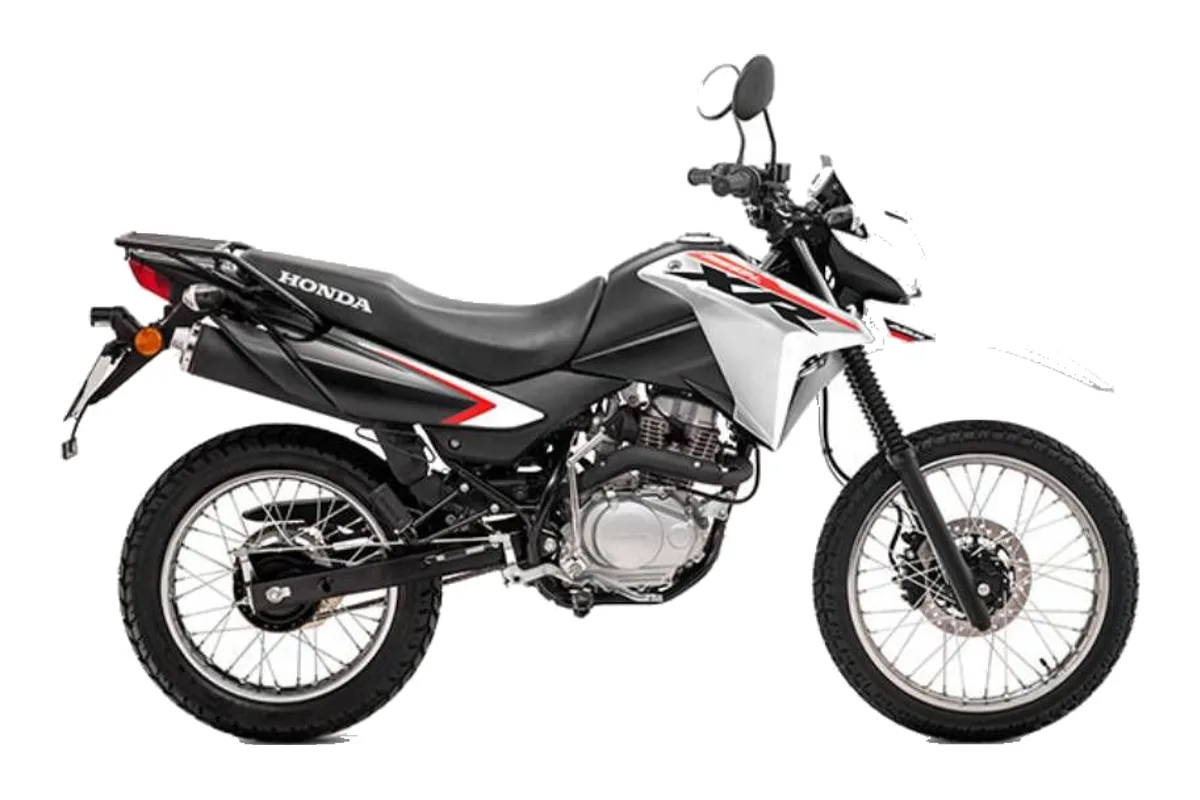
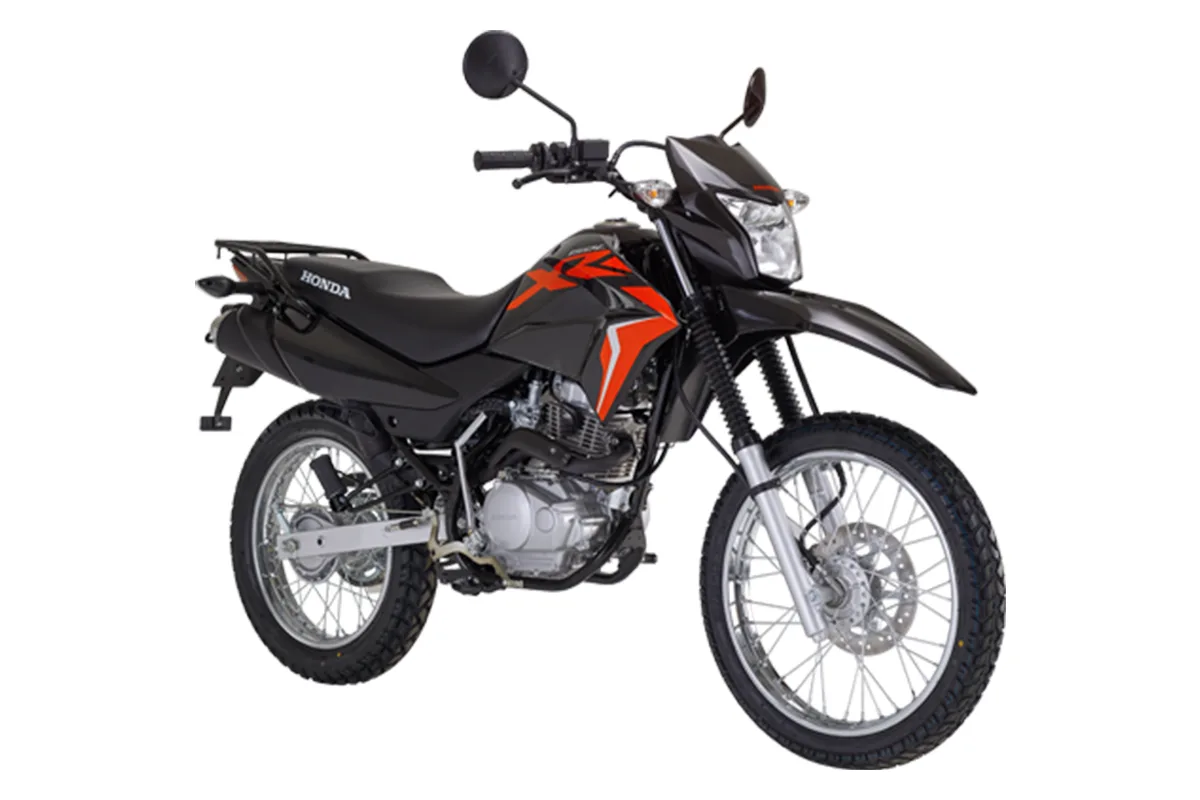
Before launch: blog fixes, licence, hours, XR150 photo, Google reviews
- Old blog posts match the site: Vietnam drives on the right; booking is a
  free request confirmed by email, then a 1,500,000₫ deposit paid to the
  shop; free delivery near District 1; prices from the bike pages; real
  lists and a comparison table instead of Odoo leftovers.
- Licence texts (EN, FR, KO, FAQ, guides, pick-up email): IDP under the
  1968 Vienna Convention, for every bike including the Versys X300.
- Open every day 8am to 8pm, in the text and the structured data.
- XR150: the owner's cut-out photo as the studio photo; the photo with
  the old logo pasted on it is out of the gallery.
- Three real Google Maps reviews in reviews.json until the Places key
  is set up.

diff --git a/src/i18n/content/ko.ts b/src/i18n/content/ko.ts
@@ -117,8 +117,8 @@ export const koContent: TranslatedContent = {
   },
   licence: {
     IDP_OR_A1:
-      "베트남 오토바이 면허 또는 오토바이가 포함된 국제운전면허증(1949년 제네바 협약)이 필요합니다.",
-    A2: "175cc 초과: 베트남 정식 오토바이 면허가 필요합니다.",
+      "베트남 오토바이 면허 또는 오토바이가 포함된 국제운전면허증(1968년 비엔나 협약)이 필요합니다.",
+    A2: "175cc 초과: 베트남 오토바이 면허 또는 오토바이가 포함된 국제운전면허증(1968년 비엔나 협약)이 필요합니다.",
   },
   kinds: {
     "Semi-automatic": "반자동",
@@ -135,8 +135,7 @@ export const koContent: TranslatedContent = {
       question: "어떤 면허가 필요한가요?",
       answer: [
         "본국 운전면허증만으로는 베트남에서 운전할 수 없습니다.",
-        "50cc~175cc 오토바이(가와사키 베르시스 X300을 제외한 모든 오토바이)는 베트남 오토바이 면허, 또는 1949년 제네바 협약에 따라 발급되고 오토바이가 포함된 국제운전면허증이 필요합니다.",
-        "베르시스 X300처럼 175cc를 넘는 오토바이는 베트남 정식 오토바이 면허가 필요합니다.",
+        "110cc 웨이브부터 가와사키 베르시스 X300까지 모든 오토바이는 베트남 오토바이 면허, 또는 1968년 비엔나 협약에 따라 발급되고 오토바이가 포함된 국제운전면허증이 필요합니다.",
       ],
     },
     {
@@ -264,7 +263,7 @@ export const koContent: TranslatedContent = {
     "베트남 어디서나 WhatsApp 도로 지원",
     "1군 및 인근 호텔 무료 배달",
   ],
-  hours: "매일 오전 8시~오후 7시 영업",
+  hours: "매일 오전 8시~오후 8시 영업",
   addOns: {
     insurance: {
       name: "종합 보험",

diff --git a/src/i18n/content/fr.ts b/src/i18n/content/fr.ts
@@ -116,8 +116,8 @@ export const frContent: TranslatedContent = {
   },
   licence: {
     IDP_OR_A1:
-      "Demande un permis moto vietnamien, ou un permis de conduire international (Convention de Genève de 1949) valable pour les motos.",
-    A2: "Plus de 175 cc : demande un permis moto vietnamien complet.",
+      "Demande un permis moto vietnamien, ou un permis de conduire international (Convention de Vienne de 1968) valable pour les motos.",
+    A2: "Plus de 175 cc : demande un permis moto vietnamien, ou un permis de conduire international (Convention de Vienne de 1968) valable pour les motos.",
   },
   kinds: {
     "Semi-automatic": "Semi-automatique",
@@ -134,8 +134,7 @@ export const frContent: TranslatedContent = {
       question: "Quel permis faut-il ?",
       answer: [
         "Le permis de conduire de votre pays ne suffit pas à lui seul au Vietnam.",
-        "Pour les motos de 50 à 175 cc (toutes nos motos sauf la Kawasaki Versys X300), il faut un permis moto vietnamien, ou un permis de conduire international délivré selon la Convention de Genève de 1949 et valable pour les motos.",
-        "Pour les motos de plus de 175 cc, comme la Versys X300, il faut un permis moto vietnamien complet.",
+        "Pour toutes nos motos, de la Wave 110 cc à la Kawasaki Versys X300, il faut un permis moto vietnamien, ou un permis de conduire international délivré selon la Convention de Vienne de 1968 et valable pour les motos.",
       ],
     },
     {
@@ -266,7 +265,7 @@ export const frContent: TranslatedContent = {
     "Assistance partout au Vietnam, par WhatsApp",
     "Livraison gratuite à votre hôtel dans le 1er arrondissement ou à proximité",
   ],
-  hours: "Ouvert tous les jours, de 8 h à 19 h",
+  hours: "Ouvert tous les jours, de 8 h à 20 h",
   addOns: {
     insurance: {
       name: "Assurance tous risques",

diff --git a/src/content/bikes.ts b/src/content/bikes.ts
@@ -272,7 +272,6 @@ export const LEAD_PHOTO: Record<string, string> = {
   "yamaha-nvx125": "/bikes/gallery/yamaha-nvx125-1.webp",
   "honda-winner-x-150": "/bikes/gallery/honda-winner-x-150-1.webp",
   "suzuki-gsx-r150": "/bikes/gallery/suzuki-gsx-r150-2.webp",
-  "honda-xr150": "/bikes/gallery/honda-xr150-1.webp",
   "honda-cb150x": "/bikes/gallery/honda-cb150x-1.webp",
   "yamaha-wr155r": "/bikes/gallery/yamaha-wr155r-3.webp",
   "kawasaki-versys-x300": "/bikes/gallery/kawasaki-versys-x300-1.webp",
@@ -280,6 +279,6 @@ export const LEAD_PHOTO: Record<string, string> = {
 
 export const LICENCE_TEXT: Record<BikeContent["licence"], string> = {
   IDP_OR_A1:
-    "Needs a Vietnamese motorcycle licence, or an International Driving Permit (1949 Geneva Convention) that covers motorbikes.",
-  A2: "Over 175cc: Needs a Vietnamese motorcycle licence, or an International Driving Permit (1949 Geneva Convention) that covers motorbikes.",
+    "Needs a Vietnamese motorcycle licence, or an International Driving Permit (1968 Vienna Convention) that covers motorbikes.",
+  A2: "Over 175cc: Needs a Vietnamese motorcycle licence, or an International Driving Permit (1968 Vienna Convention) that covers motorbikes.",
 };

diff --git a/src/content/blog/guides.ts b/src/content/blog/guides.ts
@@ -65,7 +65,7 @@ export const GUIDES: Guide[] = [
 <p>The roads are paved the whole way. A Honda XR150 or CB150X is comfortable for luggage and the mountain passes; a Honda Winner X is lighter and quick on the coast road. If you've never ridden a manual, the Honda Wave Alpha is easy to learn on, just slower on the climbs.</p>
 <h2>Good to know</h2>
 <ul>
-<li>You need a Vietnamese motorbike licence or an International Driving Permit (1949 Geneva Convention) that covers motorbikes.</li>
+<li>You need a Vietnamese motorbike licence or an International Driving Permit (1968 Vienna Convention) that covers motorbikes.</li>
 <li>One-way rentals to Da Nang are at least 7 days. The one-way fee depends on the bike and is shown when you book.</li>
 <li>Every rental includes a helmet, phone holder, luggage rack and roadside help by WhatsApp, wherever you are.</li>
 </ul>`,

diff --git a/src/content/faq.ts b/src/content/faq.ts
@@ -9,8 +9,7 @@ export const FAQ: Faq[] = [
     question: "Which licence do I need?",
     answer: [
       "Your home country driving licence on its own is not valid in Vietnam.",
-      "For bikes from 50cc to 175cc (all our bikes except the Kawasaki Versys X300), you need a Vietnamese motorcycle licence, or an International Driving Permit issued under the 1949 Geneva Convention that includes motorbikes.",
-      "For bikes over 175cc, like the Versys X300, you need a full Vietnamese motorcycle licence.",
+      "For all our bikes, from the 110cc Wave to the Kawasaki Versys X300, you need a Vietnamese motorcycle licence, or an International Driving Permit issued under the 1968 Vienna Convention that includes motorbikes.",
     ],
   },
   {

diff --git a/src/server/emails/pickup-reminder.ts b/src/server/emails/pickup-reminder.ts
@@ -32,7 +32,7 @@ export function pickupReminderEmail(d: PickupReminderData): Email {
     ["Balance to pay at pick-up", formatVnd(d.balanceVnd)],
   ];
   const bring = [
-    "Your motorbike licence, or an International Driving Permit (1949 Geneva Convention) that covers motorbikes.",
+    "Your motorbike licence, or an International Driving Permit (1968 Vienna Convention) that covers motorbikes.",
     "A security deposit, returned when you bring the bike back: your passport, or cash (US$300 for a scooter, US$500 for a motorcycle).",
     d.balanceVnd > 0
       ? `The balance of ${formatVnd(d.balanceVnd)}, in cash or by bank transfer.`

diff --git a/src/content/business.ts b/src/content/business.ts
@@ -15,10 +15,10 @@ export const BUSINESS = {
   /** For the "Open in Google Maps" link. */
   mapsQuery: "235B/A11/9 Nguyen Van Cu, District 1, Ho Chi Minh City",
   /** Opening hours, shown on the site. */
-  hours: "Open every day, 8am to 7pm",
+  hours: "Open every day, 8am to 8pm",
   /** The same hours for search engines (24-hour clock, every day). */
   opens: "08:00",
-  closes: "19:00",
+  closes: "20:00",
   /** International format, e.g. "+84 90 123 4567". */
   phone: "+84 382 681 859" as string | null,
   /** International format without spaces or "+", e.g. "84901234567", for wa.me links. */

diff --git a/docs/decisions.md b/docs/decisions.md
@@ -13,6 +13,15 @@ Choices made while planning the rebuild, with the reason for each. Pricing rules
 - **Bookings for the same bike take turns** (11 October 2026). Before saving a booking or maintenance block, the system locks that one bike for a few milliseconds and re-checks it's free. Customers booking different bikes never wait for each other. Without this, two customers booking the same bike at the same instant could stall each other for about a second until the database cancelled one, which then failed with an error instead of getting another bike. The no-overlap rule remains the final guarantee.
 - **Timezone.** All dates are in Asia/Ho_Chi_Minh.
 
+## Blog clean-up, licence, reviews (16 November 2026)
+
+- **Licence.** International Driving Permits are recognised in Vietnam under the 1968 Vienna Convention, not the 1949 Geneva Convention (owner, 16 Nov 2026). Every licence text says 1968 Vienna (bike pages, FAQ, guides, old blog post, pick-up email, FR and KO). The site doesn't discuss enforcement, and doesn't say the insurance depends on the licence: the shop decides that case by case.
+- **Old blog posts** (imported from Odoo) now match the site: Vietnam drives on the right; booking is a free request, confirmed by email, then a 1,500,000₫ deposit paid directly to the shop and the rest at pick-up; free delivery to hotels in or near District 1; prices from the bike pages. Fake "•" bullets became real lists, the comparison is a real table, stray `&nbsp;` removed.
+- **Bikes over 175cc** (the Versys X300) follow the same rule as the others: a Vietnamese motorcycle licence or a 1968 Vienna IDP covering motorbikes (owner, 16 Nov 2026).
+- **Opening hours.** Every day, 8am to 8pm (owner, 16 Nov 2026), in the text and the structured data.
+- **XR150 photos.** The riding photo with the old logo pasted on it is out of the gallery (file kept). The studio photo comes first, replaced by the owner's cut-out `XR.png` (black and orange XR150) on a white 1200×800 background like the other bikes.
+- **Reviews.** Until the Google Places key is set up, `src/content/reviews.json` holds three real 5-star reviews copied word for word from the Google Maps listing on 16 Nov 2026 (4.9 from 252 reviews). Once the key is set, the live reviews replace them.
+
 ## Before launch: tours, drop-off cities, contract terms (16 November 2026)
 
 - **No tour pages.** The shop doesn't run guided tours, only self-guided trips with its map. The tour pages, their nav and footer links, the home tile and the sitemap entries are gone. `/tours` and `/tours/*` (also under `/fr` and `/ko`) redirect to the one-way page. To bring tours back, restore `src/content/tours.ts`, `src/views/ToursView.tsx`, `src/components/tourPhotos.ts` and the `tours` route folders from the commit before this change, and remove the redirect. The `TOUR` enquiry kind stays in the database for enquiries sent before.
